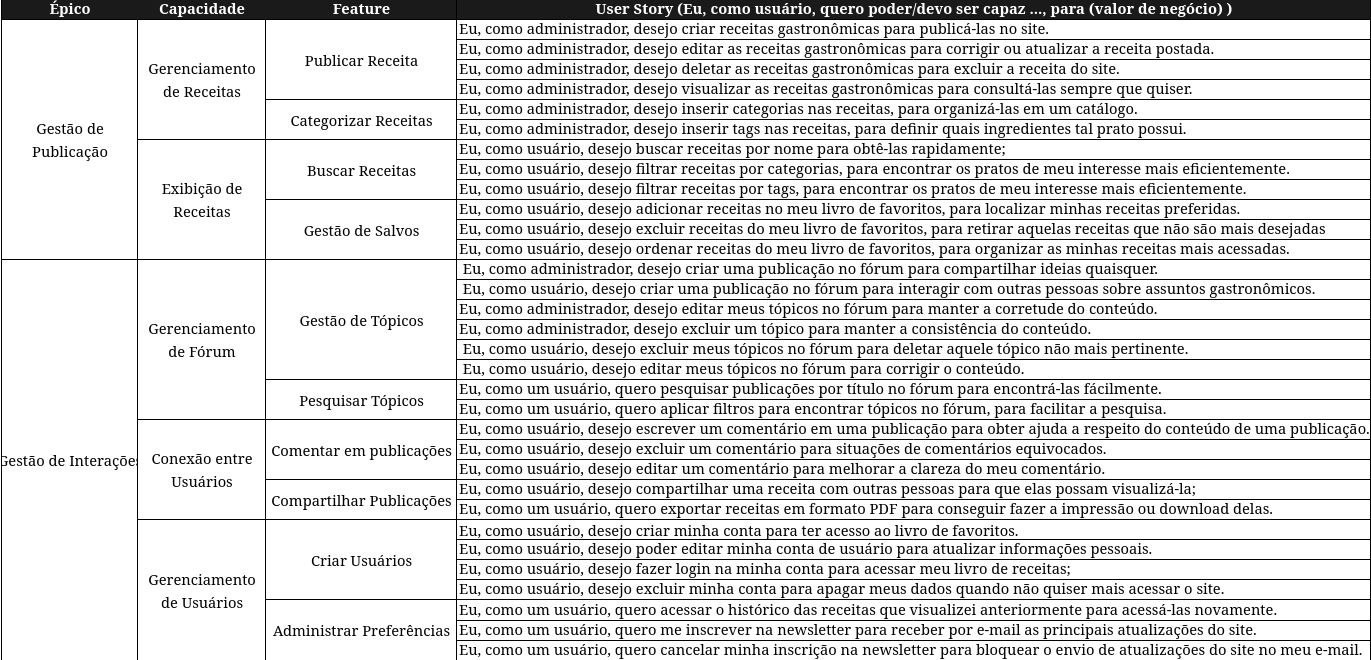
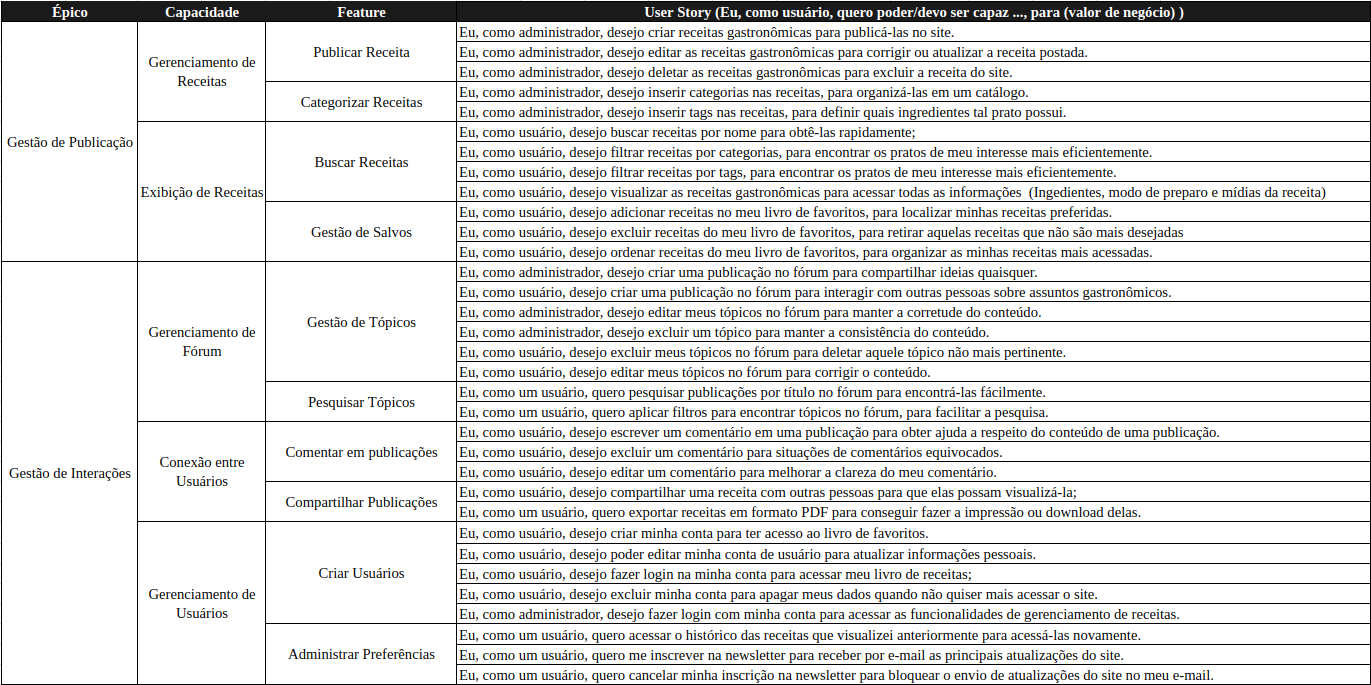
fix: ajustes US e priorizacao MVP

diff --git a/docs/backlog-produto/mvp.md b/docs/backlog-produto/mvp.md
@@ -3,9 +3,10 @@
 | Id | Descrição |
 | --- | --- |
 | US03 | Eu, como administrador, desejo deletar as receitas gastronômicas para ter mais controle sobre o conteúdo do site. |
-| US04 | Eu, como administrador, desejo visualizar as receitas gastronômicas para consultá-las sempre que quiser. |
+| US04 | Eu, como usuário, desejo visualizar as receitas gastronômicas para consultá-las sempre que quiser. |
 | US02 | Eu, como administrador, desejo editar as receitas gastronômicas para ter mais flexibilidade sobre as receitas. |
 | US01 | Eu, como administrador, desejo criar receitas gastronômicas para poder enriquecer o conteúdo do site aumentando a variedade de receitas culinárias. |
+| US33 | Eu, como administrador, desejo fazer login com minha conta para acessar as funcionalidades de gerenciamento de receitas. |
 | US25 | Eu, como um usuário, quero exportar receitas em formato PDF para que eu consiga visualizar a receita offline e em outros dispositivos. | 
 | US24 | Eu, como usuário, desejo compartilhar uma receita com outras pessoas para trocar experiências culinárias com amigos e familiares de forma rápida e conveniente. |
 | US07 | Eu, como usuário, desejo buscar receitas por nome para encontrar rapidamente receitas específicas e facilitar o acesso a pratos de meu interesse. |
@@ -19,75 +20,97 @@
 
 **US03 -** Eu, como administrador, desejo deletar as receitas gastronômicas para ter mais controle sobre o conteúdo do site.
 
-1. Deve haver um mecanismo de autenticação seguro para garantir que apenas administradores autorizados possam acessar essa funcionalidade.
+1. O sistema deve verificar por meio do login se o usuário é administrador, a fim de garantir que apenas administradores possam acessar essa funcionalidade.
 
 2. Ao clicar para deletar uma receita, o sistema deve solicitar uma confirmação antes de realizar a exclusão.
 
-**US04** - Eu, como administrador, desejo visualizar as receitas gastronômicas para consultá-las sempre que quiser.
+**US04** - Eu, como usuário, desejo visualizar as receitas gastronômicas para consultá-las sempre que quiser.
 
-1. Deve haver uma seção claramente identificada na interface do administrador para visualizar as receitas gastronômicas.
+1. Deve haver uma seção claramente identificada na interface do usuário para visualizar as receitas gastronômicas.
 
-2. Ao clicar em uma receita na lista, o sistema deve exibir detalhes completos da receita, incluindo ingredientes, instruções de preparo, e outras informações relevantes.
+2. Ao clicar em uma receita na lista, o sistema deve exibir detalhes da receita, incluindo ingredientes, instruções de preparo e tags.
 
 **US02** - Eu, como administrador, desejo editar as receitas gastronômicas para ter mais flexibilidade sobre as receitas.
 
-1. Todos os campos importantes de uma receita, como ingredientes, instruções de preparo, tempo de cozimento, devem ser editáveis.
+1. Todos os campos de uma receita podem ser editados.
 
 2. Oferecer a opção de visualizar as alterações antes de salvá-las permanentemente
 
 **US01** - Eu, como administrador, desejo criar receitas gastronômicas para poder enriquecer o conteúdo do site aumentando a variedade de receitas culinárias.
 
-1. Definir campos essenciais, por exemplo, ( título, ingredientes e instruções) sendo obrigatórios para evitar receitas incompletas.
+1. Os campos de título, ingredientes e instruções são obrigatórios.
 
-2. Permitir o upload de imagens e vídeos para ilustrar a receita.
+2. O sistema deve impedir a criação de uma receita que não tenha todos os campos obrigatórios preenchidos
 
-3. Permitir a associação da receita a categorias específicas e adicionar tags relevantes para facilitar a busca e a organização.
+3. O usuário deve ser informado de quais campos de informação são obrigatórios e quais são opcionais
 
-4. Oferecer uma pré-visualização para que os administradores possam revisar a aparência final da receita antes de publicá-la.
+4. Permitir o upload de imagens e vídeos presentes no dispositivo (computador ou smartphone) para ilustrar a receita.
 
-5. Implementar autenticação segura para que apenas o administrador crie receitas
+5. Permitir a associação da receita a categorias específicas e adicionar tags relevantes para facilitar a busca e a organização.
+
+6. Oferecer uma pré-visualização para que os administradores possam revisar a aparência final da receita antes de publicá-la.
+
+**US33 -** Eu, como administrador, desejo fazer login com minha conta para acessar as funcionalidades de gerenciamento de receitas (criar, editar e deletar receitas).
+
+1. As funcionalidades de criar, editar e deletar receitas devem estar restritas à interface do administrador.
+
+2. O sistema deve validar as credenciais inseridas e permitir o acesso apenas a administradores.
 
 **US05 -** Eu, como administrador, desejo inserir categorias nas receitas para organizar o conteúdo de forma estruturada.
 
 1. As categorias dos pratos devem ser: Entrada, prato principal, sobremesa, lanche, café da manhã, Bolos e tortas, Eventos Festivos.
 
-2. Cada prato pode ter nenhuma ou muitas categorias diferentes.
+2. Cada prato pode ter nenhuma, uma  ou muitas categorias diferentes.
 
 **US06 -** Eu, como administrador, desejo inserir tags nas receitas para facilitar o agrupamento dos ingredientes que o prato possui.
 
 1. As tags possíveis dos pratos são: Leite, Oleaginosas, Carne de Porco, Farinha de Trigo, Carne de Frango, Carne Bovina, Peixe, Queijos, Cogumelos
 
-2. Cada receita pode ter nenhum ou muitas tags diferentes.
+2. Cada receita pode ter nenhum, uma ou muitas tags diferentes.
 
-3. *(Talvez) Automatizar as tags com todos os ingredientes que forem descritos na receita.*
+3. Automatizar as tags com todos os ingredientes que forem descritos na receita.
 
-**US07 -** Eu, como usuário, desejo buscar receitas por nome para encontrar rapidamente receitas específicas e facilitar o acesso a pratos de meu interesse.
+**US07 -**  Eu, como usuário, desejo buscar receitas por nome para encontrar rapidamente receitas específicas e facilitar o acesso a pratos de meu interesse.
 
-1. As receitas devem ser filtradas pelas palavaras que contém no título da receita.
+1. As receitas devem ser buscadas pelas palavras que contém no título da receita.
 
-2. As receitas não devem ser pesquisadas com exatamente a mesma disposição das palavras da busca.
+2. A receita não necessariamente deve conter todas as palavras da busca em seu título
+
+3. A pesquisa por uma receita não precisa ser feita na ordem exata das palavras do título da receita
+
+4. Caso o campo de busca esteja vazio, então o sistema deve avisar ao usuário que o campo de busca está vazio
+
+5. Caso a busca não encontre nenhuma receita, o usuário deve receber a seguinte mensagem: 'A receita que está procurando não foi encontrada.”
+
 
 **US08 -**  Eu, como usuário, desejo filtrar receitas por categorias para encontrar os pratos de meu interesse mais eficientemente.
 
 1. A pesquisa é feita apenas com as categorias pré-existentes. É uma busca direcionada.
 
-2. Não deve ser possível pesquisar receitas com uma categoria não existente.
+2. O usuário pode filtrar por uma ou mais categorias simultaneamente
+
+3. Não deve ser possível pesquisar receitas com uma categoria não existente.
+
+4. Todas as receitas que conterem alguma das categorias escolhidas serão mostradas ao usuário
+
 
 **US09 -** Eu, como usuário, desejo filtrar receitas por tags para encontrar os pratos com ingredientes de meu interesse mais eficientemente.
 
 1. A pesquisa é feita apenas com as tags pré-existentes. É uma busca direcionada.
 
-2. Não deve ser possível pesquisar receitas com uma tag não existente.
+2. O usuário pode filtrar por uma ou mais tags simultaneamente
+
+3. Não deve ser possível pesquisar receitas com uma tag não existente.
+
+4. Todas as receitas que conterem alguma das tags escolhidas serão mostradas ao usuário
+
 
 **US24 -** Eu, como usuário, desejo compartilhar uma receita com outras pessoas para trocar experiências culinárias com amigos e familiares de forma rápida e conveniente.
 
-1. Deve poder copiar o link através de um botão intuitivo de compartilhamento.
-
-2. Quem acessar o link deve dar direto na mesma página, sem necessidade de login.
+1. O usuário deve poder copiar o link da receita com apenas 1 clique em um botão.
 
 
-**US25 -** Eu, como um usuário, quero exportar receitas em formato PDF para que eu consiga visualizar a receita offline e em outros dispositivos.
+**US25 -** Eu, como usuário, quero exportar receitas em formato PDF para que eu consiga visualizar a receita offline e em outros dispositivos.
 
-1. Deve abrir um pdf através de um botão intuitivo de visualização de pdf.
-
+1. Deve-se abrir um pdf através de um botão intuitivo de visualização de pdf.
 2. Deve ter a opção de baixar o pdf na mesma página.

diff --git a/docs/backlog-produto/backlog.md b/docs/backlog-produto/backlog.md
@@ -4,6 +4,7 @@
 | :--------: | :----: | :-------------------------------: | :----------------------------------------------------: |
 | 25/10/2023 |  0.1   | Criação e estruturação do backlog | Felipe Direito, </br> Felipe Hansen, </br> Luan Mateus |
 | 15/11/2023 |  0.2   | Criação dos Critérios de Aceitação do MVP | Felipe Direito |
+| 22/11/2023 |  0.3   | Ajuste de user stories | Felipe Hansen |
 
 
 ## Backlog do Produto
@@ -53,12 +54,12 @@ _Aqui você encontra a lista de Histórias de Usuário sem priorização. Caso v
 | [US01] | Eu, como administrador, desejo criar receitas gastronômicas para poder enriquecer o conteúdo do site aumentando a variedade de receitas culinárias. | [FT01]  |
 | [US02] | Eu, como administrador, desejo editar as receitas gastronômicas para ter mais flexibilidade sobre as receitas.                 | [FT01]  |
 | [US03] | Eu, como administrador, desejo deletar as receitas gastronômicas para ter mais controle sobre o conteúdo do site.              | [FT01]  |
-| [US04] | Eu, como administrador, desejo visualizar as receitas gastronômicas para consultá-las sempre que quiser.                       | [FT01]  |
 | [US05] | Eu, como administrador, desejo inserir categorias nas receitas para organizar o conteúdo de forma estruturada.                 | [FT02]  |
 | [US06] | Eu, como administrador, desejo inserir tags nas receitas para facilitar o agrupamento dos ingredientes que o prato possui.     | [FT02]  |
 | [US07] | Eu, como usuário, desejo buscar receitas por nome para encontrar rapidamente receitas específicas e facilitar o acesso a pratos de meu interesse. | [FT03]  |
 | [US08] | Eu, como usuário, desejo filtrar receitas por categorias para encontrar os pratos de meu interesse mais eficientemente.        | [FT03]  |
 | [US09] | Eu, como usuário, desejo filtrar receitas por tags para encontrar os pratos com ingredientes de meu interesse mais eficientemente. | [FT03]  |
+| [US04] | Eu, como usuário, desejo visualizar as receitas gastronômicas para consultá-las sempre que quiser.                             | [FT03]  |
 | [US10] | Eu, como usuário, desejo adicionar receitas no meu livro de favoritos, para localizar minhas receitas preferidas.              | [FT04]  |
 | [US11] | Eu, como usuário, desejo excluir receitas do meu livro de favoritos, para retirar aquelas receitas que não são mais desejadas. | [FT04]  |
 | [US12] | Eu, como usuário, desejo ordenar receitas do meu livro de favoritos, para organizar as minhas receitas mais acessadas.         | [FT04]  |
@@ -79,6 +80,7 @@ _Aqui você encontra a lista de Histórias de Usuário sem priorização. Caso v
 | [US27] | Eu, como usuário, desejo poder editar minha conta de usuário para atualizar informações pessoais.                              | [FT09]  |
 | [US28] | Eu, como usuário, desejo fazer login na minha conta para acessar meu livro de receitas.                                        | [FT09]  |
 | [US29] | Eu, como usuário, desejo excluir minha conta para apagar meus dados quando não quiser mais acessar o site.                     | [FT09]  |
+| [US33] | Eu, como administrador, desejo fazer login com minha conta para acessar as funcionalidades de gerenciamento de receitas.       | [FT09]  |
 | [US30] | Eu, como um usuário, quero acessar o histórico das receitas que visualizei anteriormente para acessá-las novamente.            | [FT10]  |
 | [US31] | Eu, como um usuário, quero me inscrever na newsletter para receber por e-mail as principais atualizações do site.              | [FT10]  |
 | [US32] | Eu, como um usuário, quero cancelar minha inscrição na newsletter para bloquear o envio de atualizações do site no meu e-mail. | [FT10]  |

diff --git a/docs/backlog-produto/priorizacao-requisitos.md b/docs/backlog-produto/priorizacao-requisitos.md
@@ -14,9 +14,10 @@ Segue abaixo a tabela completa de pontuação dos requisitos, ordenada da maior 
 | Feature | Id | Descrição | Valor de Negócio | Viabilidade | Complexidade | Total |
 | --- | --- | --- | --- | --- | --- | --- |
 | [FT01] | US03 | Eu, como administrador, desejo deletar as receitas gastronômicas para ter mais controle sobre o conteúdo do site. | 10 | 5 | 5 | 20 |
-| [FT01] | US04 | Eu, como administrador, desejo visualizar as receitas gastronômicas para consultá-las sempre que quiser. | 10 | 5 | 5 | 20 |
+| [FT01] | US04 | Eu, como usuário, desejo visualizar as receitas gastronômicas para consultá-las sempre que quiser. | 10 | 5 | 5 | 20 |
 | [FT01] | US02 | Eu, como administrador, desejo editar as receitas gastronômicas para ter mais flexibilidade sobre as receitas. | 10 | 5 | 4 | 19 |
 | [FT01] | US01 | Eu, como administrador, desejo criar receitas gastronômicas para poder enriquecer o conteúdo do site aumentando a variedade de receitas culinárias. | 10 | 5 | 3 | 18 |
+| [FT09] | US33 | Eu, como administrador, desejo fazer login com minha conta para acessar as funcionalidades de gerenciamento de receitas. | 10 | 4 | 3 | 17 |
 | [FT08] | US25 | Eu, como um usuário, quero exportar receitas em formato PDF para que eu consiga visualizar a receita offline e em outros dispositivos. | 10 | 3 | 4 | 17 |
 | [FT08] | US24 | Eu, como usuário, desejo compartilhar uma receita com outras pessoas para trocar experiências culinárias com amigos e familiares de forma rápida e conveniente | 9 | 3 | 4 | 16 |
 | [FT03] | US07 | Eu, como usuário, desejo buscar receitas por nome para encontrar rapidamente receitas específicas e facilitar o acesso a pratos de meu interesse. | 10 | 3 | 3 | 16 |
